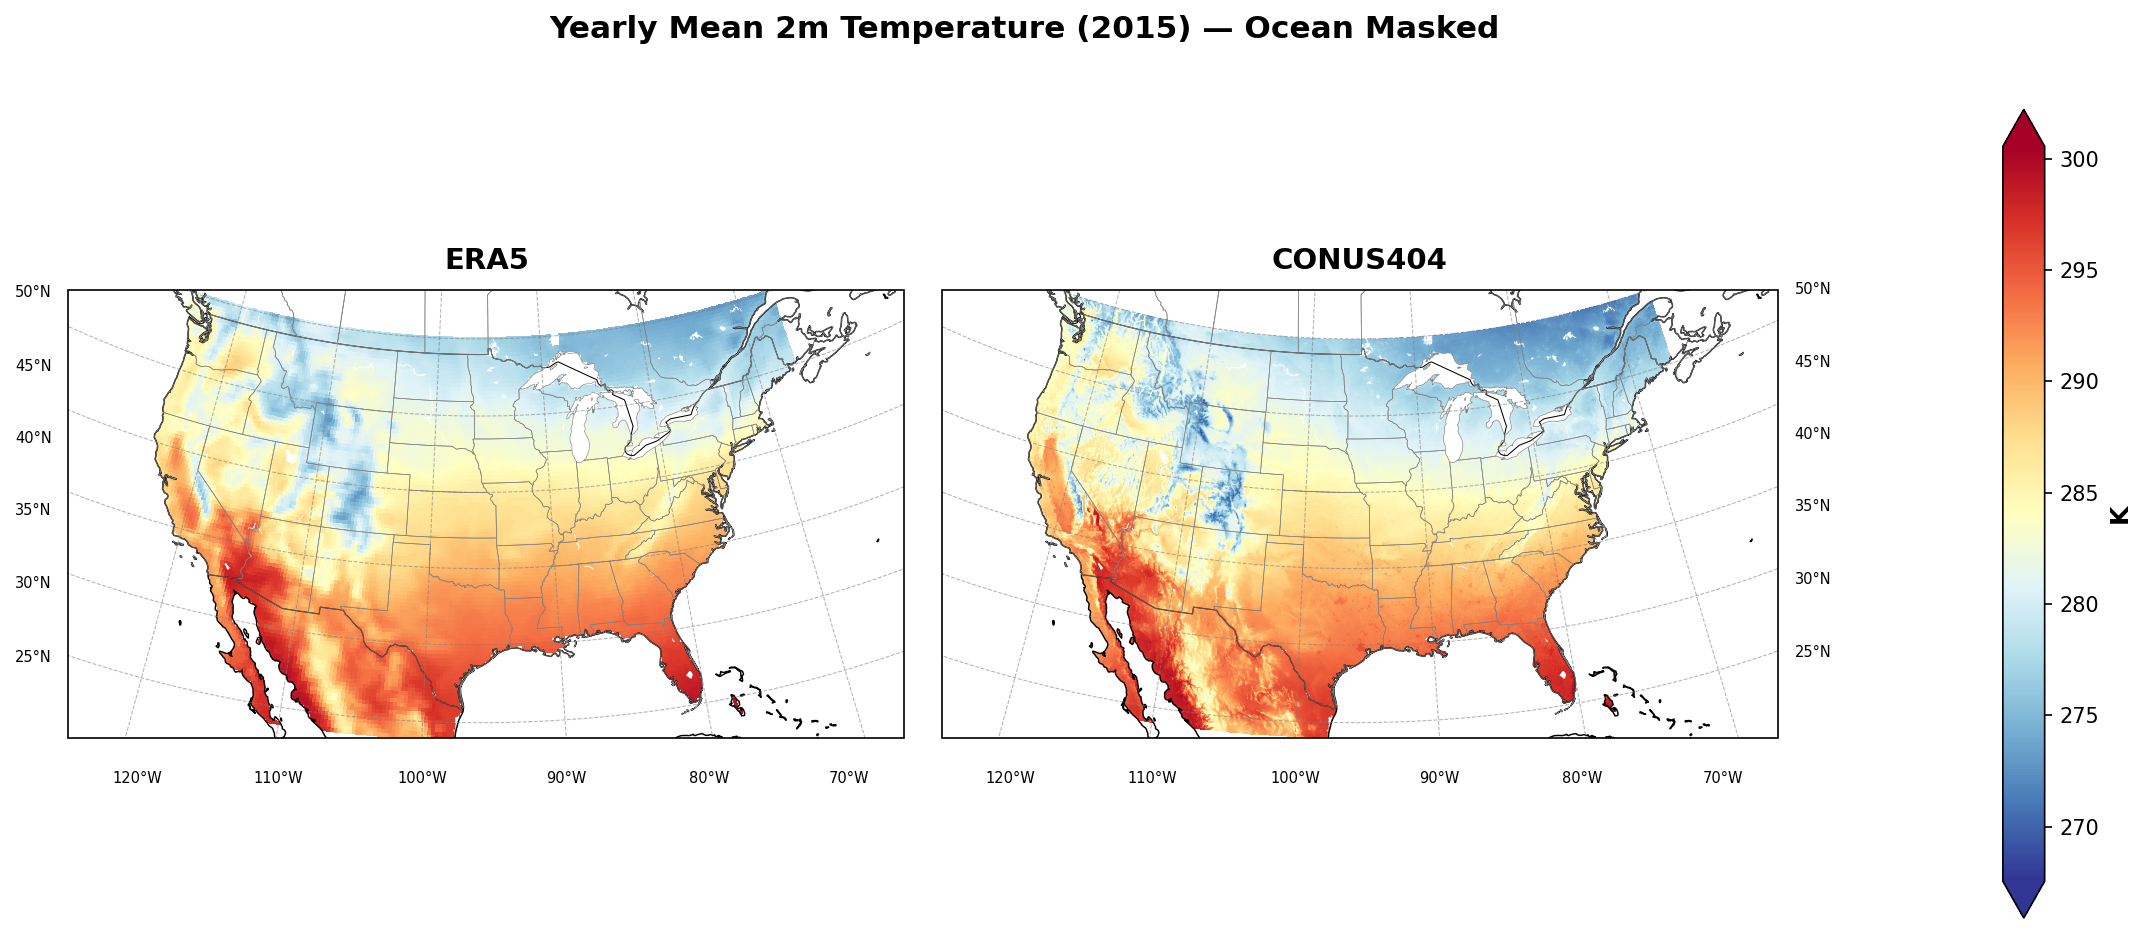
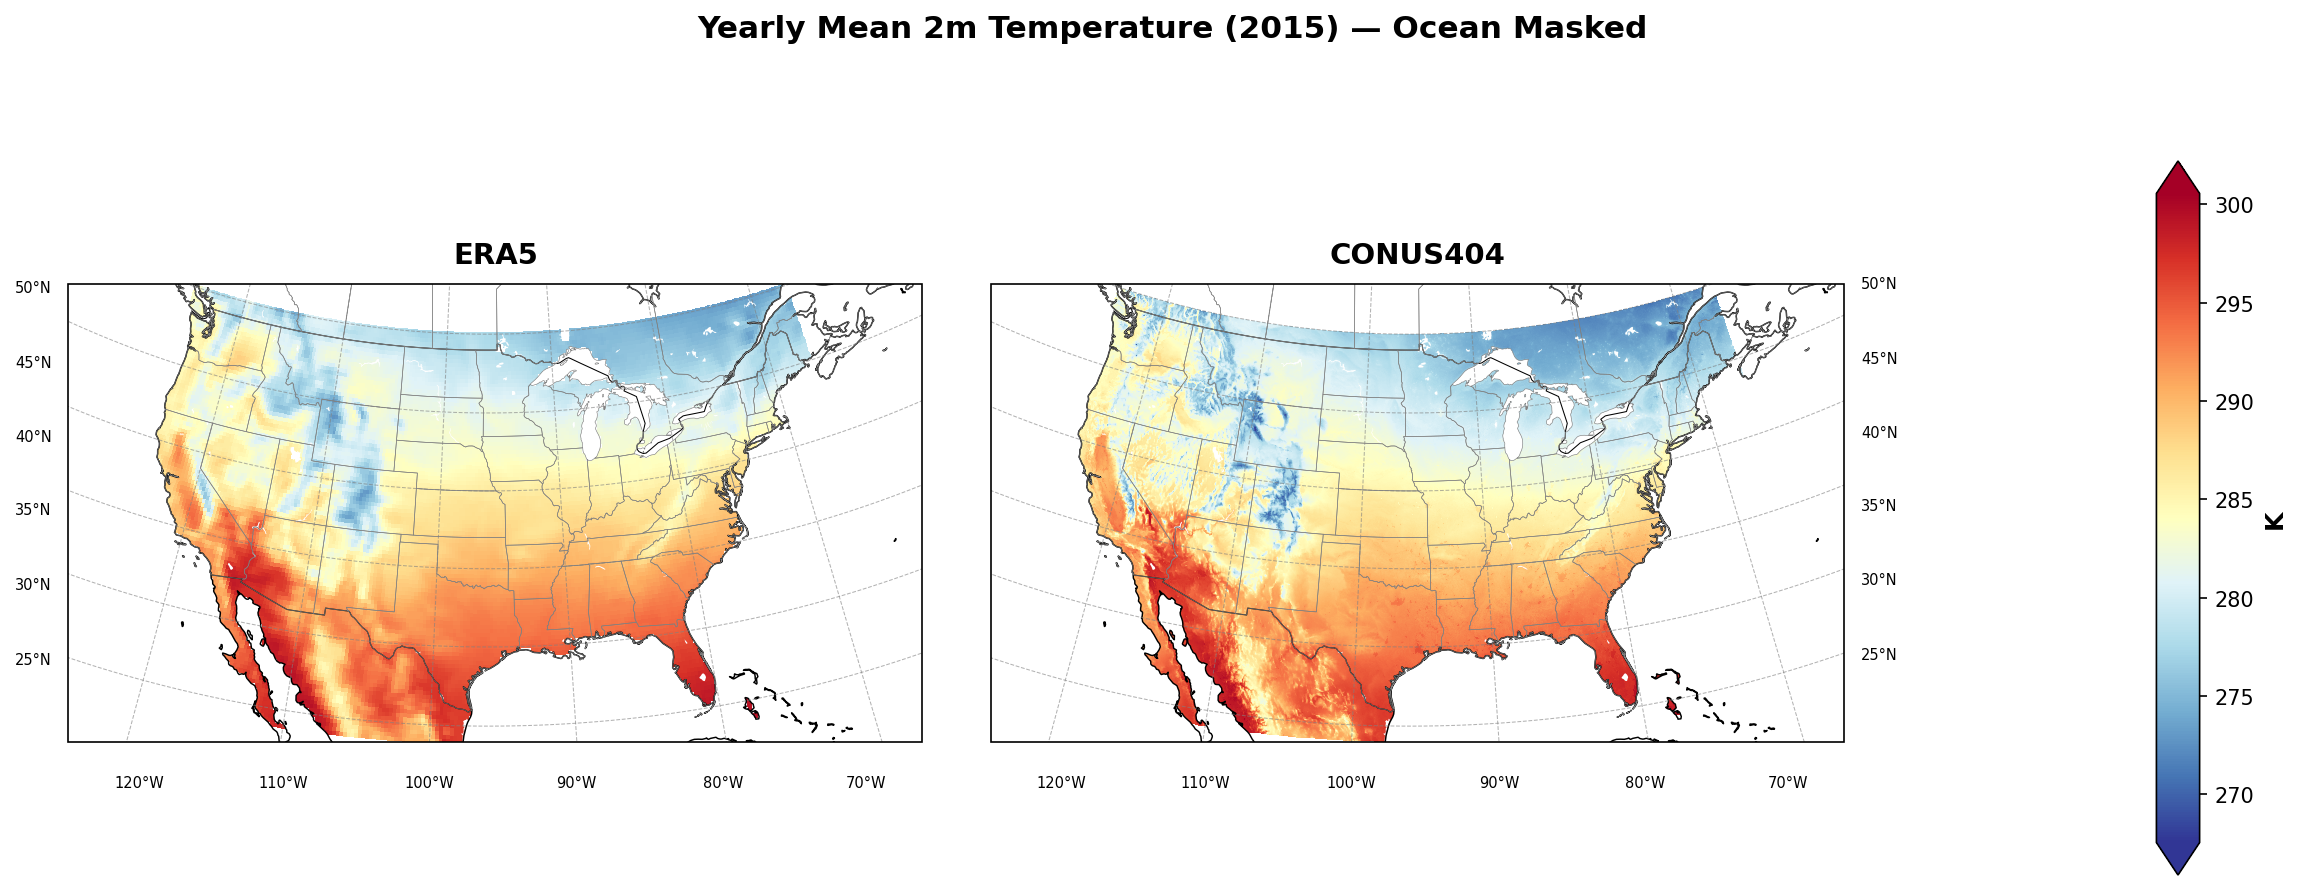
Fix colorbar placement: use fig.add_axes for explicit positioning
Replaces GridSpec colorbar column with a manually positioned axes so
the colorbar sits clearly to the right of the CONUS404 lat labels.

diff --git a/gen_t2m_plot.py b/gen_t2m_plot.py
@@ -117,8 +117,9 @@ vmin = min(np.nanmin(era_arr), np.nanmin(conus_arr))
 vmax = max(np.nanmax(era_arr), np.nanmax(conus_arr))
 
 # ── plot ─────────────────────────────────────────────────────────────────────
-fig = plt.figure(figsize=(17, 7))
-gs  = gridspec.GridSpec(1, 4, width_ratios=[1, 1, 0.18, 0.05], wspace=0.08)
+fig = plt.figure(figsize=(16, 7))
+# two equal map panels, leave the right 15% of the figure for lat labels + colorbar
+gs = gridspec.GridSpec(1, 2, left=0.04, right=0.78, wspace=0.08)
 
 ax1 = fig.add_subplot(gs[0], projection=proj)
 im1 = ax1.pcolormesh(lon_e, lat_e, era_arr, transform=ccrs.PlateCarree(),
@@ -132,7 +133,8 @@ im2 = ax2.pcolormesh(lon2d, lat2d, conus_arr, transform=ccrs.PlateCarree(),
 add_map_features(ax2, lat_side='right')
 ax2.set_title('CONUS404', fontsize=14, fontweight='bold', pad=10)
 
-cax = fig.add_subplot(gs[3])
+# colorbar placed explicitly well to the right of the lat labels
+cax = fig.add_axes([0.91, 0.15, 0.018, 0.68])
 fig.colorbar(im2, cax=cax, extend='both').set_label('K', fontsize=12, fontweight='bold')
 
 fig.suptitle(f'Yearly Mean 2m Temperature ({YEAR}) — Ocean Masked',
